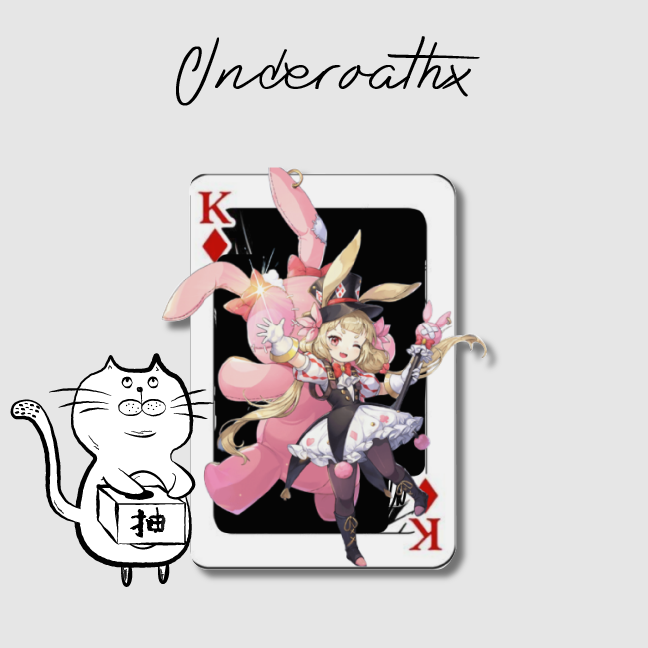
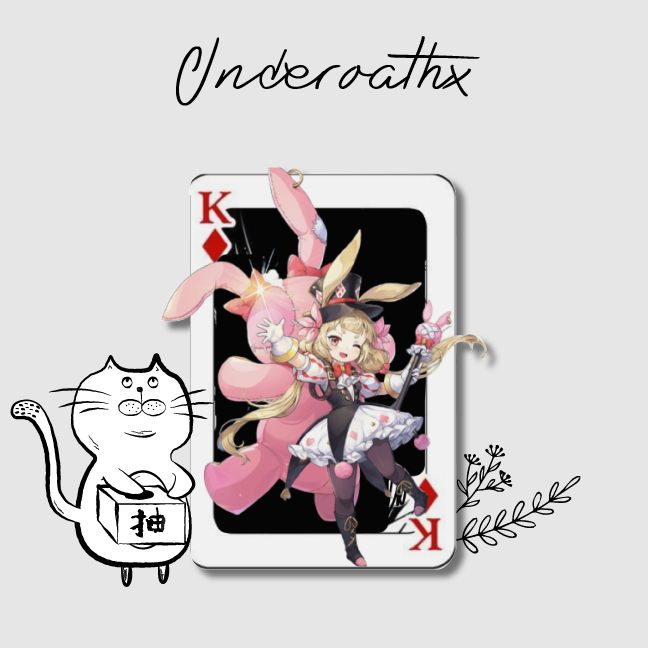
change pic

Changed region(s): [[0.7099, 0.679, 0.8951, 0.8642]]

diff --git a/index.html b/index.html
@@ -59,7 +59,7 @@
                   <img src="./img/index/work1.png" alt="1" class="img-fluid"
                 /></a>
                 <a href="./works_2.html" class="btn p-0 mb-5 hoverImage">
-                  <img src="./img/index/work2.jpeg" alt="2" class="img-fluid"
+                  <img src="./img/index/work2.png" alt="2" class="img-fluid"
                 /></a>
                 <!--
                 <a href="#" class="btn mb-5 p-0 hoverImage">
@@ -139,7 +139,7 @@
                 <div class="row">
                   <!--left page-->
                   <div class="col-md ps-3 pageShadow">
-                    <div class="py-5 border-start border-danger">
+                    <div class="py-5 border-start border-danger h-100">
                       <!--left content-->
 
                       <div class="container">
@@ -284,13 +284,13 @@
               </div>
             </div>
             <!---book end-->
-            <!--
-            <div class="position-fixed bottom-0 end-0 cathandR">
-              <img src="./img/index/cat.png" alt="" class="img-fluid" />
+
+            <div class="position-absolute bottom-0 end-0 cathandR">
+              <img src="./img/index/Rhand.png" alt="" class="img-fluid" />
             </div>
-            <div class="position-fixed bottom-0 start-0 cathandL">
-              <img src="./img/index/cat.png" alt="" class="img-fluid" />
-            </div>-->
+            <div class="position-absolute bottom-0 start-0 cathandL">
+              <img src="./img/index/Lhand.png" alt="" class="img-fluid" />
+            </div>
           </div>
         </div>
       </div>

diff --git a/css/style.css b/css/style.css
@@ -160,14 +160,12 @@ h1, .write {
 }
 
 .cathandL {
-  -webkit-transform: rotate(7deg);
-          transform: rotate(7deg);
-  margin-bottom: -12px;
+  margin-bottom: -100px;
+  margin-left: -68px;
 }
 
 .cathandR {
-  -webkit-transform: rotate(-7deg);
-          transform: rotate(-7deg);
-  margin-bottom: -12px;
+  margin-bottom: -100px;
+  margin-right: -65px;
 }
 /*# sourceMappingURL=style.css.map */
